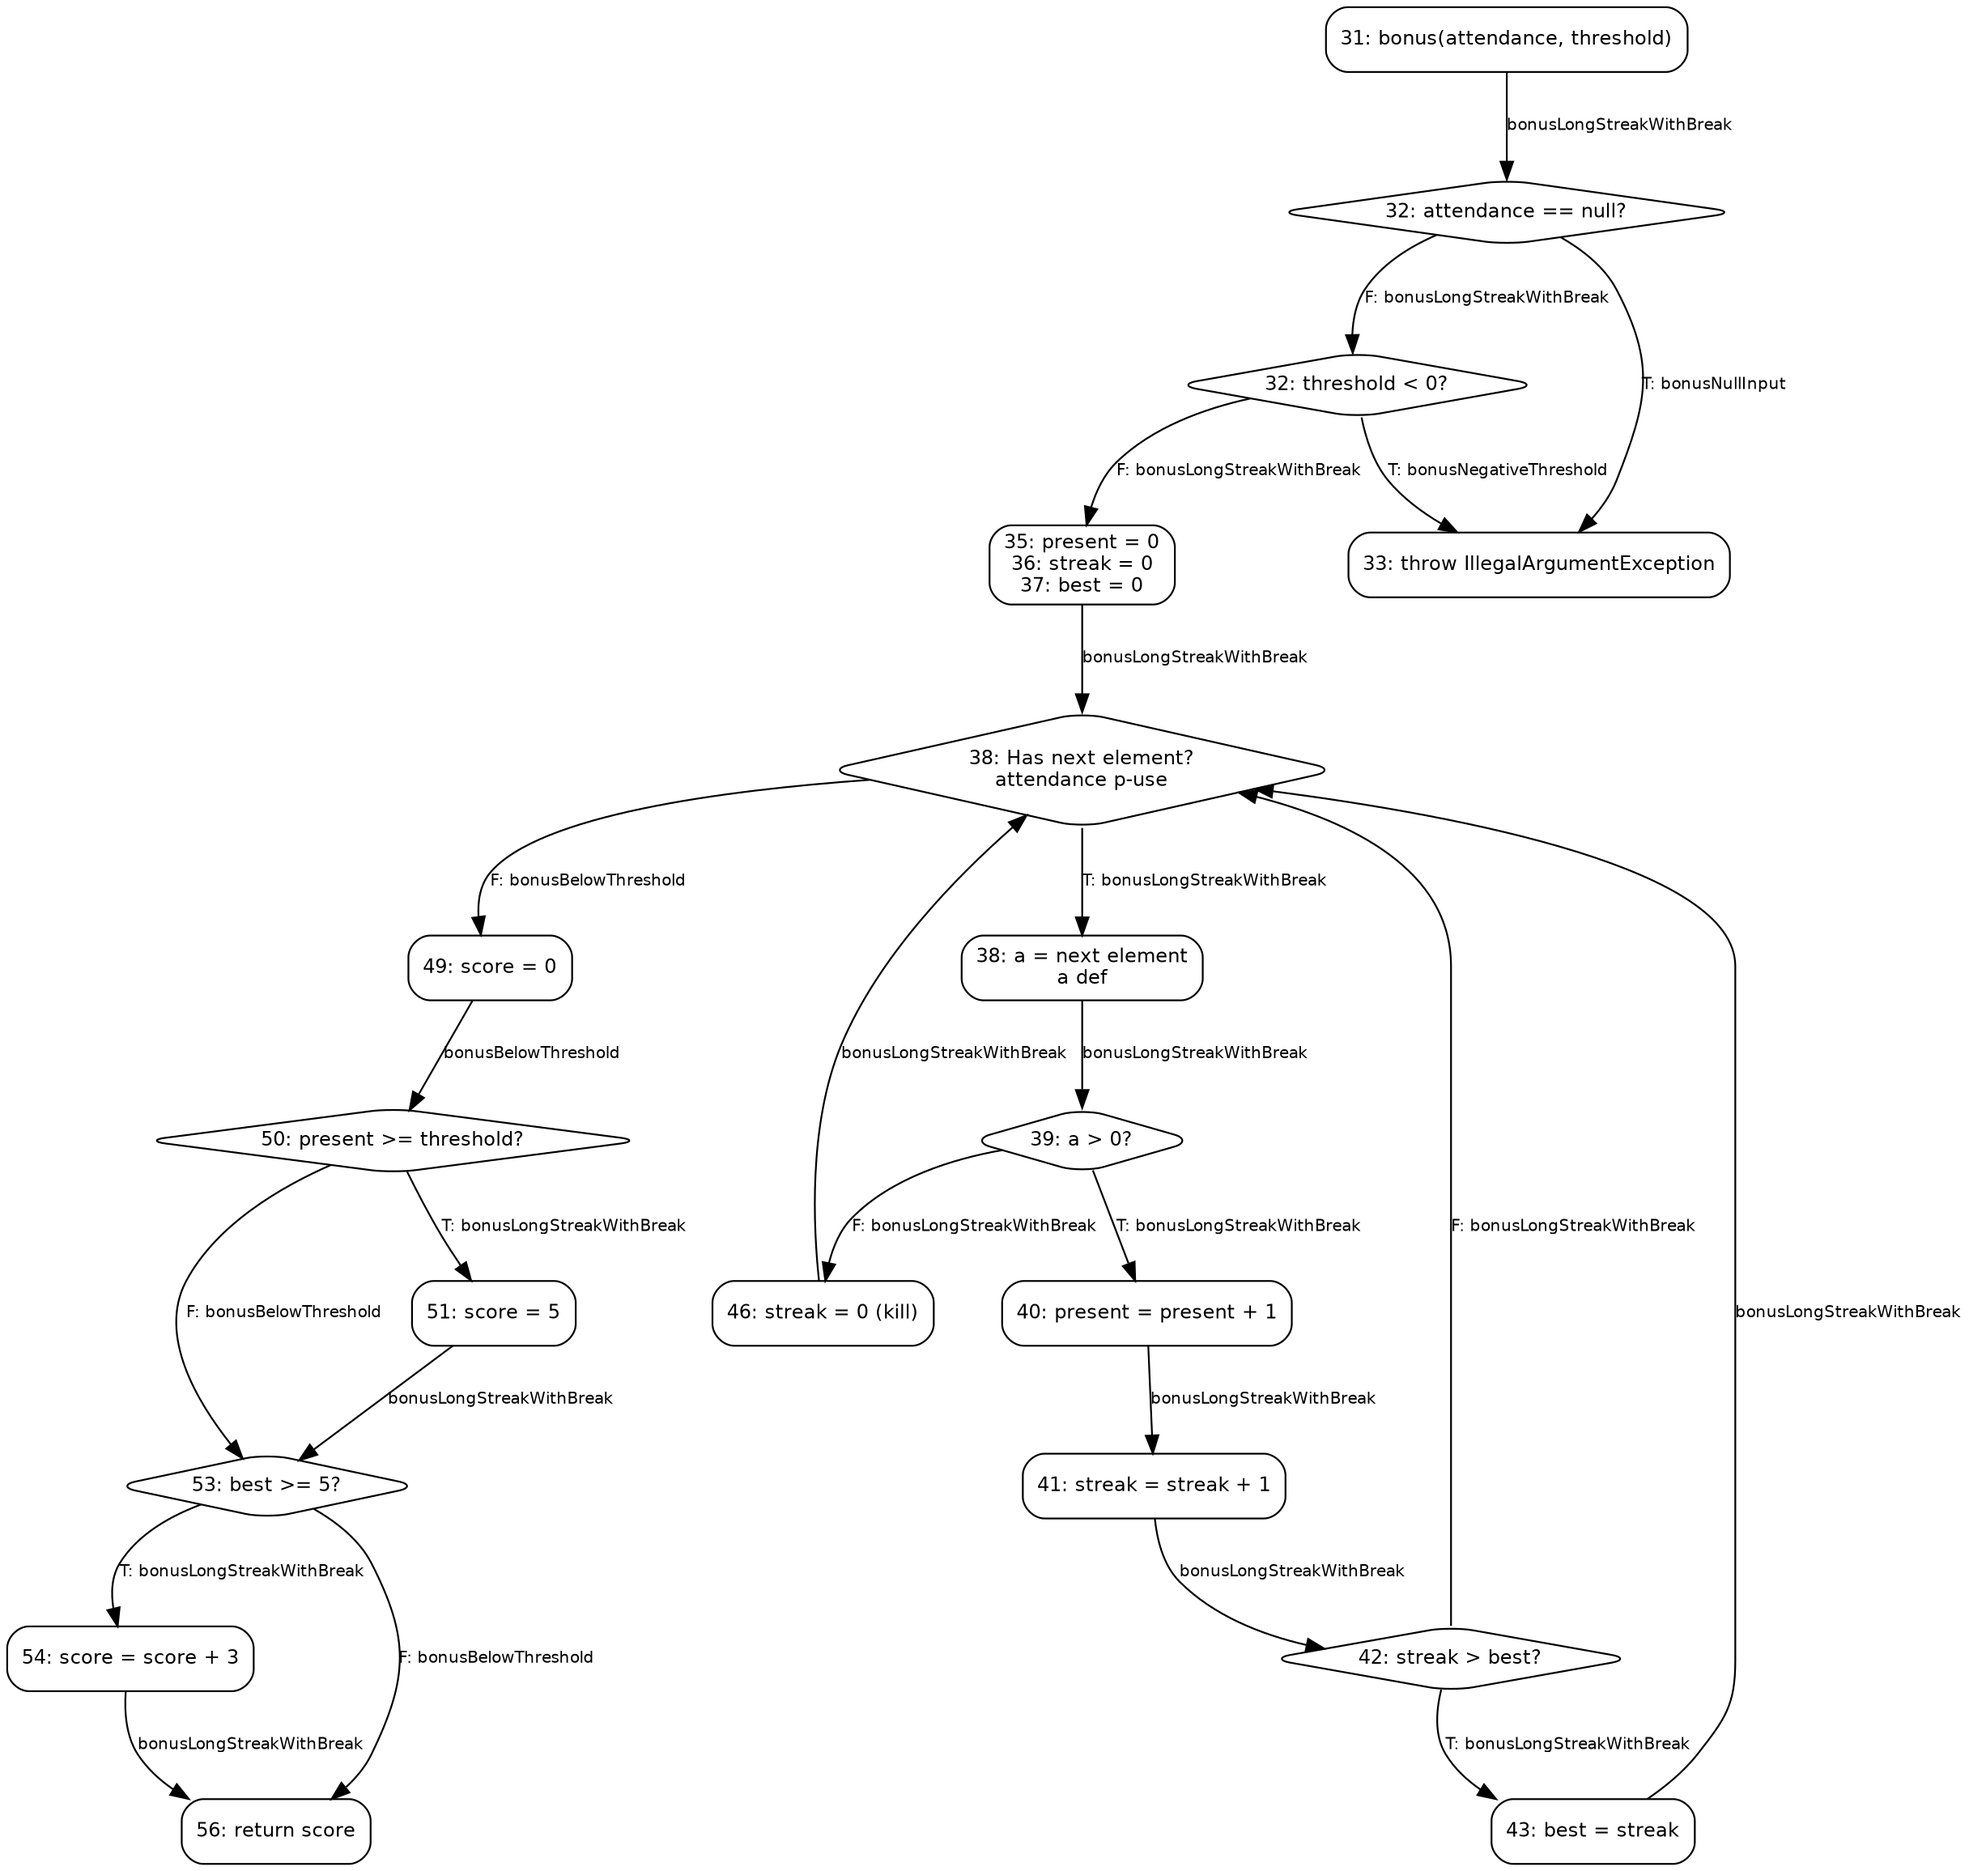
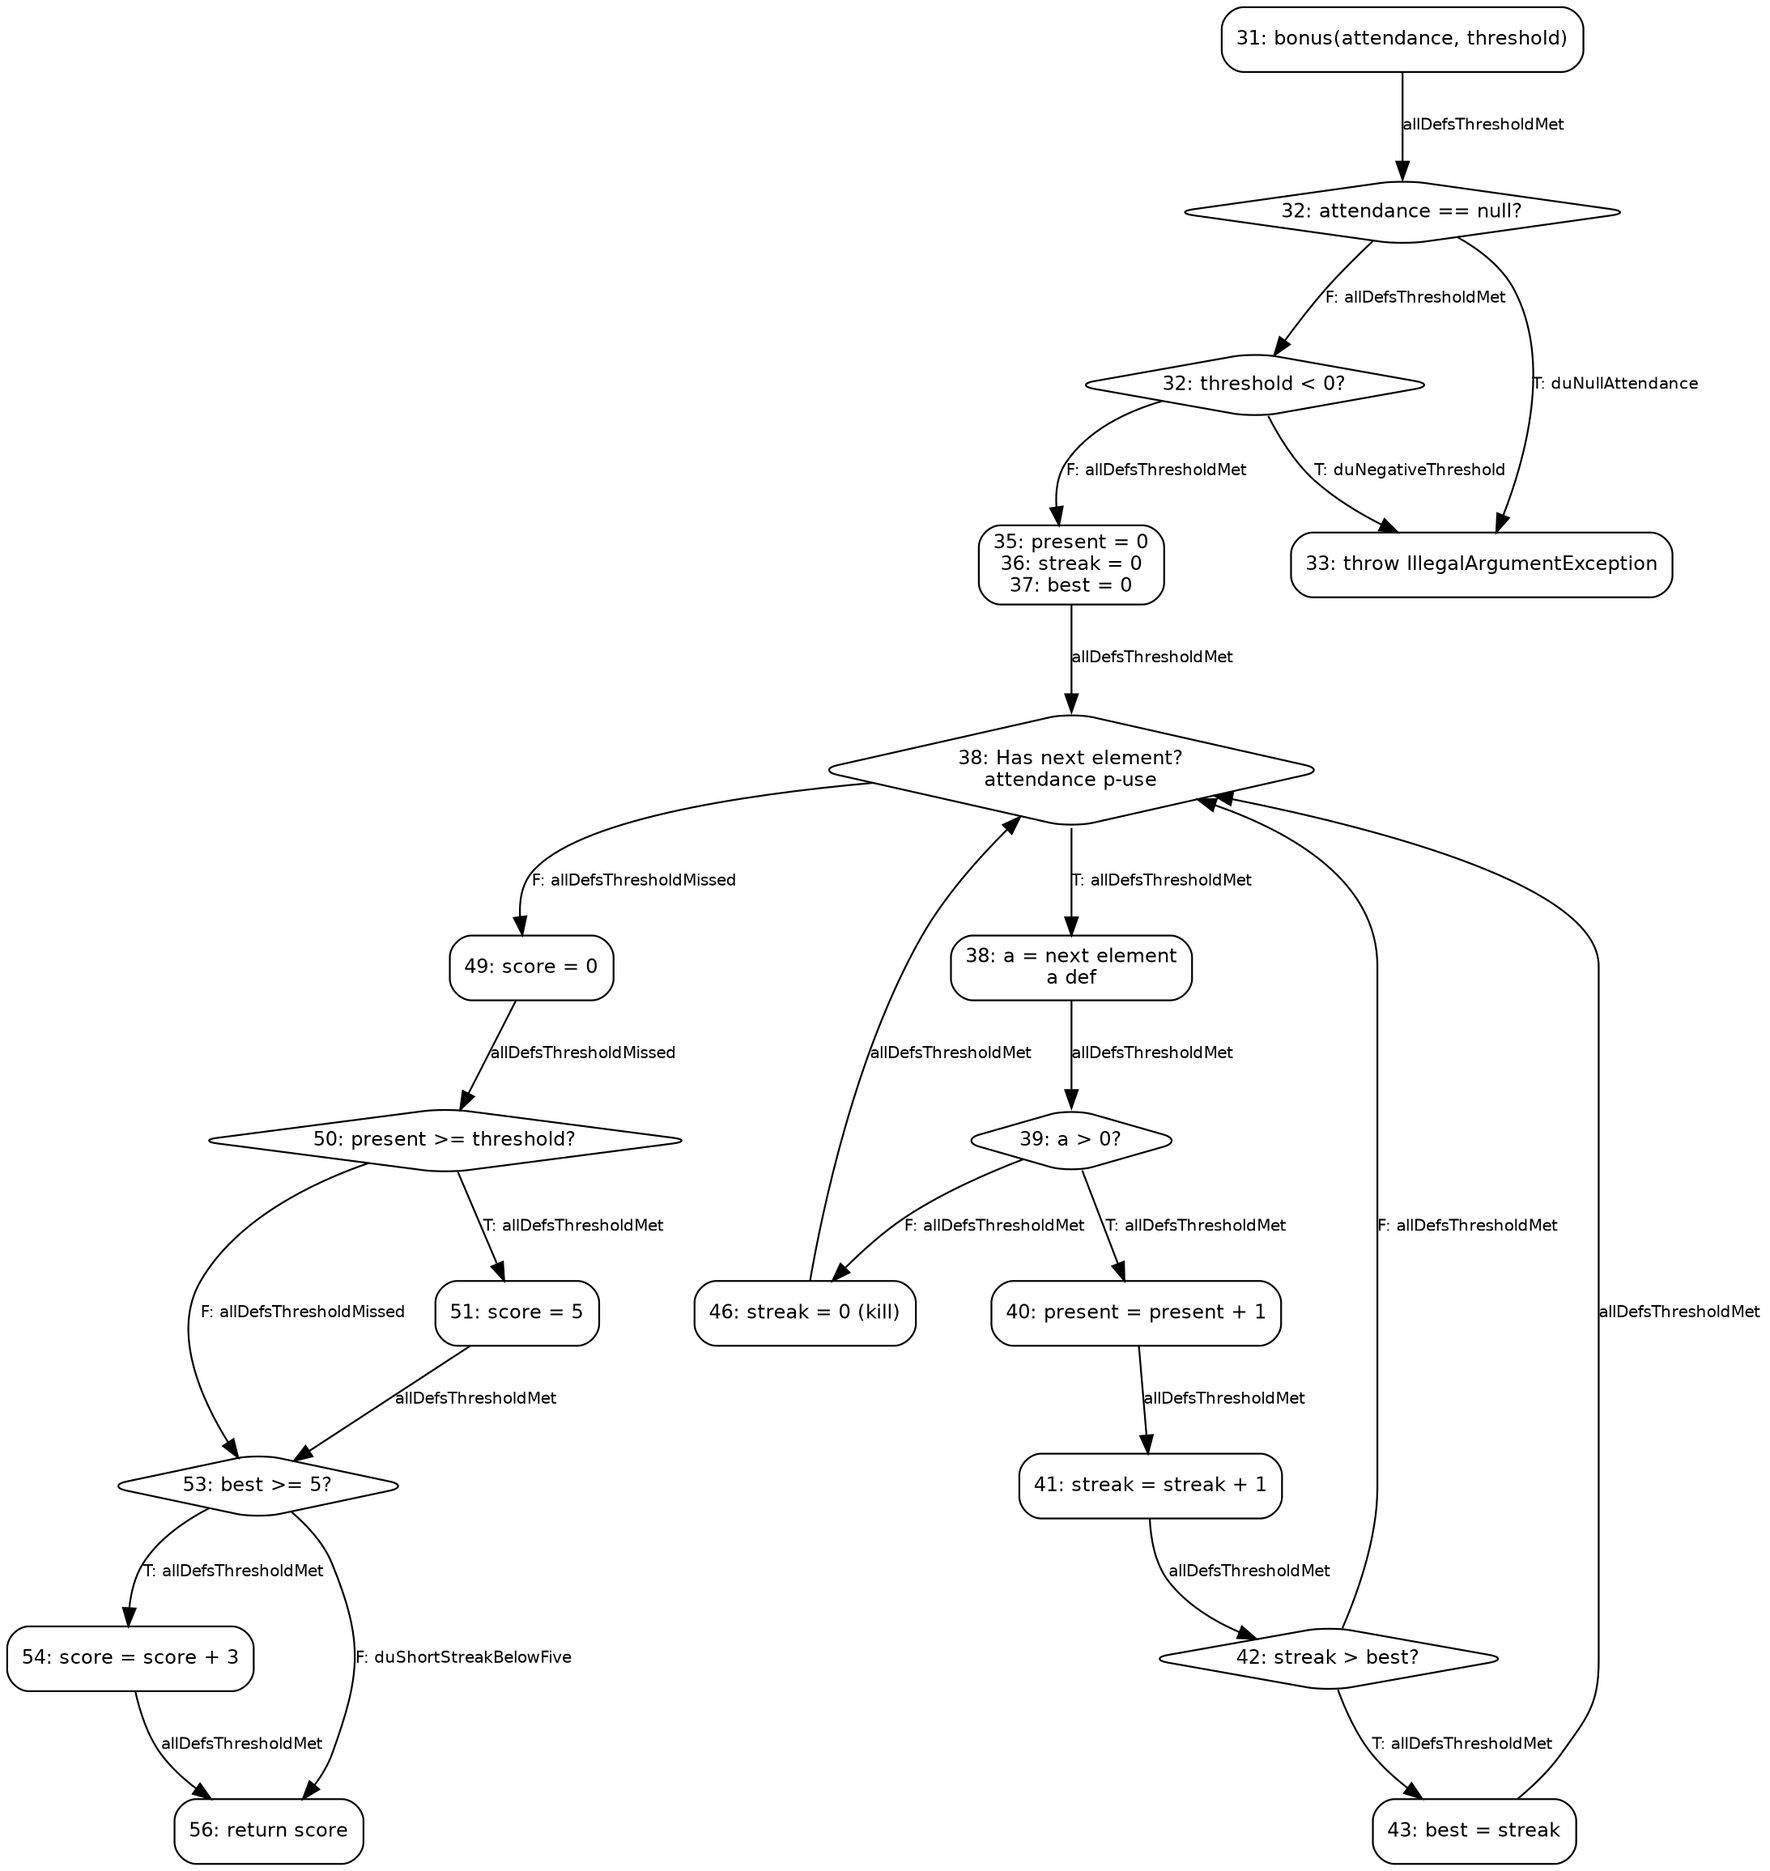
Add bonus all-DU-pairs tests and coverage analysis

diff --git a/src/test/java/mn/edu/must/sqat/BonusTest.java b/src/test/java/mn/edu/must/sqat/BonusTest.java
@@ -22,4 +22,43 @@ class BonusTest {
     }
 
 
+
+    @Test
+    @DisplayName("DU: null attendance, line 31-32T")
+    void duNullAttendance() {
+        org.junit.jupiter.api.Assertions.assertThrows(
+            IllegalArgumentException.class,
+            () -> DataFlowTargets.bonus(null, 1)
+        );
+    }
+
+    @Test
+    @DisplayName("DU: negative threshold, line 31-32T")
+    void duNegativeThreshold() {
+        org.junit.jupiter.api.Assertions.assertThrows(
+            IllegalArgumentException.class,
+            () -> DataFlowTargets.bonus(new int[]{1}, -1)
+        );
+    }
+
+    @Test
+    @DisplayName("DU: empty array, present 35-50T, score 51-56")
+    void duEmptyThresholdZero() {
+        assertEquals(5, DataFlowTargets.bonus(new int[]{}, 0));
+    }
+
+    @Test
+    @DisplayName("DU: empty array, present 35-50F, score 49-56")
+    void duEmptyBelowThreshold() {
+        assertEquals(0, DataFlowTargets.bonus(new int[]{}, 1));
+    }
+
+
+    @Test
+    @DisplayName("DU: best 43-53F, score 51-56, short streak")
+    void duShortStreakBelowFive() {
+        int[] attendance = {1, 1, 0, 1};
+        assertEquals(5, DataFlowTargets.bonus(attendance, 2));
+    }
+
 }

diff --git a/README.md b/README.md
@@ -142,39 +142,39 @@ DU хосуудыг оруулав. T = True, F = False.
 
 | Хувьсагч | Def | Use | Төрөл | Def-clear зам | Тестийн ID | Хамралт |
 |---|---|---|---|---|---|---|
-| attendance | 31 | 32T | p-use | 31→32T (null) | — | Шалгаагүй |
-| attendance | 31 | 32F | p-use | 31→32F (non-null) | — | Шалгаагүй |
-| attendance | 31 | 38T | p-use | 31→32F→35→36→37→38T | — | Шалгаагүй |
-| attendance | 31 | 38F | p-use | 31→32F→35→36→37→38F | — | Шалгаагүй |
-| threshold | 31 | 32T | p-use | 31→32T (negative) | — | Шалгаагүй |
-| threshold | 31 | 32F | p-use | 31→32F (nonnegative) | — | Шалгаагүй |
-| threshold | 31 | 50T | p-use | 31→32F→38...→49→50T | — | Шалгаагүй |
-| threshold | 31 | 50F | p-use | 31→32F→38...→49→50F | — | Шалгаагүй |
-| a | 38 | 39T | p-use | 38→39T | — | Шалгаагүй |
-| a | 38 | 39F | p-use | 38→39F | — | Шалгаагүй |
-| present | 35 | 40 | c-use | 35→38T→39T→40 | — | Шалгаагүй |
-| present | 35 | 50T | p-use | 35→38F→49→50T | — | Шалгаагүй |
-| present | 35 | 50F | p-use | 35→38F→49→50F | — | Шалгаагүй |
-| present | 40 | 40 | c-use | 40→38T→39T→40 | — | Шалгаагүй |
-| present | 40 | 50T | p-use | 40→38F→49→50T | — | Шалгаагүй |
-| present | 40 | 50F | p-use | 40→38F→49→50F | — | Шалгаагүй |
-| streak | 36 | 41 | c-use | 36→38T→39T→40→41 | — | Шалгаагүй |
-| streak | 41 | 41 | c-use | 41→42→38T→39T→40→41 | — | Шалгаагүй |
-| streak | 41 | 42T | p-use | 41→42T | — | Шалгаагүй |
-| streak | 41 | 42F | p-use | 41→42F | — | Шалгаагүй |
-| streak | 41 | 43 | c-use | 41→42T→43 | — | Шалгаагүй |
-| streak | 46 | 41 | c-use | 46→38T→39T→40→41 | — | Шалгаагүй |
-| best | 37 | 42T | p-use | 37→38T→39T→40→41→42T | — | Шалгаагүй |
-| best | 37 | 53F | p-use | 37→38F→49→50→53F | — | Шалгаагүй |
-| best | 43 | 42T | p-use | 43→38T→39T→40→41→42T | — | Шалгаагүй |
-| best | 43 | 42F | p-use | 43→38T→39F→46→38T→39T→40→41→42F | — | Шалгаагүй |
-| best | 43 | 53T | p-use | 43→38F→49→50→53T | — | Шалгаагүй |
-| best | 43 | 53F | p-use | 43→38F→49→50→53F | — | Шалгаагүй |
-| score | 49 | 54 | c-use | 49→50F→53T→54 | — | Шалгаагүй |
-| score | 49 | 56 | c-use | 49→50F→53F→56 | — | Шалгаагүй |
-| score | 51 | 54 | c-use | 51→53T→54 | — | Шалгаагүй |
-| score | 51 | 56 | c-use | 51→53F→56 | — | Шалгаагүй |
-| score | 54 | 56 | c-use | 54→56 | — | Шалгаагүй |
+| attendance | 31 | 32T | p-use | 31→32T (null) | duNullAttendance | Тийм |
+| attendance | 31 | 32F | p-use | 31→32F (non-null) | allDefsThresholdMet | Тийм |
+| attendance | 31 | 38T | p-use | 31→32F→35→36→37→38T | allDefsThresholdMet | Тийм |
+| attendance | 31 | 38F | p-use | 31→32F→35→36→37→38F | duEmptyBelowThreshold | Тийм |
+| threshold | 31 | 32T | p-use | 31→32T (negative) | duNegativeThreshold | Тийм |
+| threshold | 31 | 32F | p-use | 31→32F (nonnegative) | allDefsThresholdMet | Тийм |
+| threshold | 31 | 50T | p-use | 31→32F→38...→49→50T | allDefsThresholdMet | Тийм |
+| threshold | 31 | 50F | p-use | 31→32F→38...→49→50F | allDefsThresholdMissed | Тийм |
+| a | 38 | 39T | p-use | 38→39T | allDefsThresholdMet | Тийм |
+| a | 38 | 39F | p-use | 38→39F | allDefsThresholdMet | Тийм |
+| present | 35 | 40 | c-use | 35→38T→39T→40 | allDefsThresholdMet | Тийм |
+| present | 35 | 50T | p-use | 35→38F→49→50T | duEmptyThresholdZero | Тийм |
+| present | 35 | 50F | p-use | 35→38F→49→50F | duEmptyBelowThreshold | Тийм |
+| present | 40 | 40 | c-use | 40→38T→39T→40 | allDefsThresholdMet | Тийм |
+| present | 40 | 50T | p-use | 40→38F→49→50T | allDefsThresholdMet | Тийм |
+| present | 40 | 50F | p-use | 40→38F→49→50F | allDefsThresholdMissed | Тийм |
+| streak | 36 | 41 | c-use | 36→38T→39T→40→41 | allDefsThresholdMet | Тийм |
+| streak | 41 | 41 | c-use | 41→42→38T→39T→40→41 | allDefsThresholdMet | Тийм |
+| streak | 41 | 42T | p-use | 41→42T | allDefsThresholdMet | Тийм |
+| streak | 41 | 42F | p-use | 41→42F | allDefsThresholdMet | Тийм |
+| streak | 41 | 43 | c-use | 41→42T→43 | allDefsThresholdMet | Тийм |
+| streak | 46 | 41 | c-use | 46→38T→39T→40→41 | allDefsThresholdMet | Тийм |
+| best | 37 | 42T | p-use | 37→38T→39T→40→41→42T | allDefsThresholdMet | Тийм |
+| best | 37 | 53F | p-use | 37→38F→49→50→53F | duEmptyBelowThreshold | Тийм |
+| best | 43 | 42T | p-use | 43→38T→39T→40→41→42T | allDefsThresholdMet | Тийм |
+| best | 43 | 42F | p-use | 43→38T→39F→46→38T→39T→40→41→42F | allDefsThresholdMet | Тийм |
+| best | 43 | 53T | p-use | 43→38F→49→50→53T | allDefsThresholdMet | Тийм |
+| best | 43 | 53F | p-use | 43→38F→49→50→53F | duShortStreakBelowFive | Тийм |
+| score | 49 | 54 | c-use | 49→50F→53T→54 | allDefsThresholdMissed | Тийм |
+| score | 49 | 56 | c-use | 49→50F→53F→56 | duEmptyBelowThreshold | Тийм |
+| score | 51 | 54 | c-use | 51→53T→54 | allDefsThresholdMet | Тийм |
+| score | 51 | 56 | c-use | 51→53F→56 | duShortStreakBelowFive | Тийм |
+| score | 54 | 56 | c-use | 54→56 | allDefsThresholdMet | Тийм |
 
 **Нийт: 33 биелэх боломжтой DU хос.**
 
